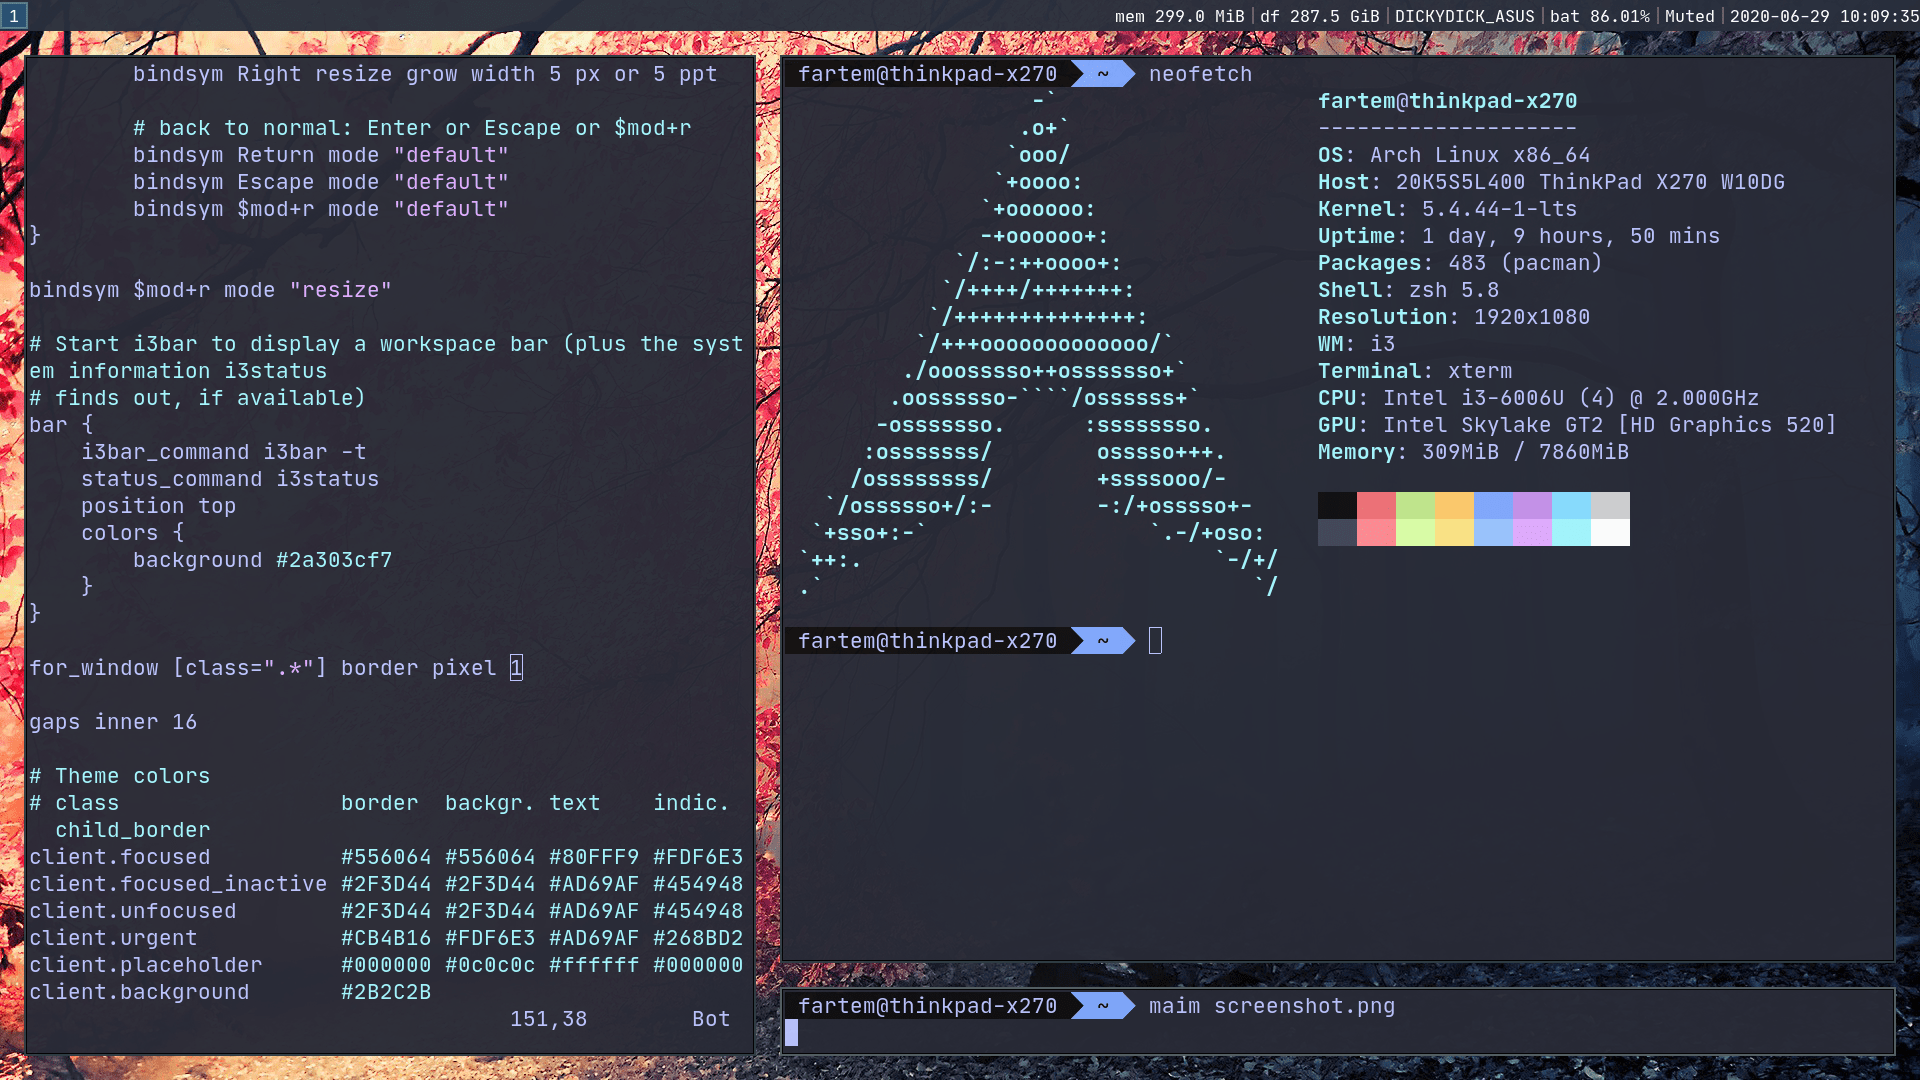
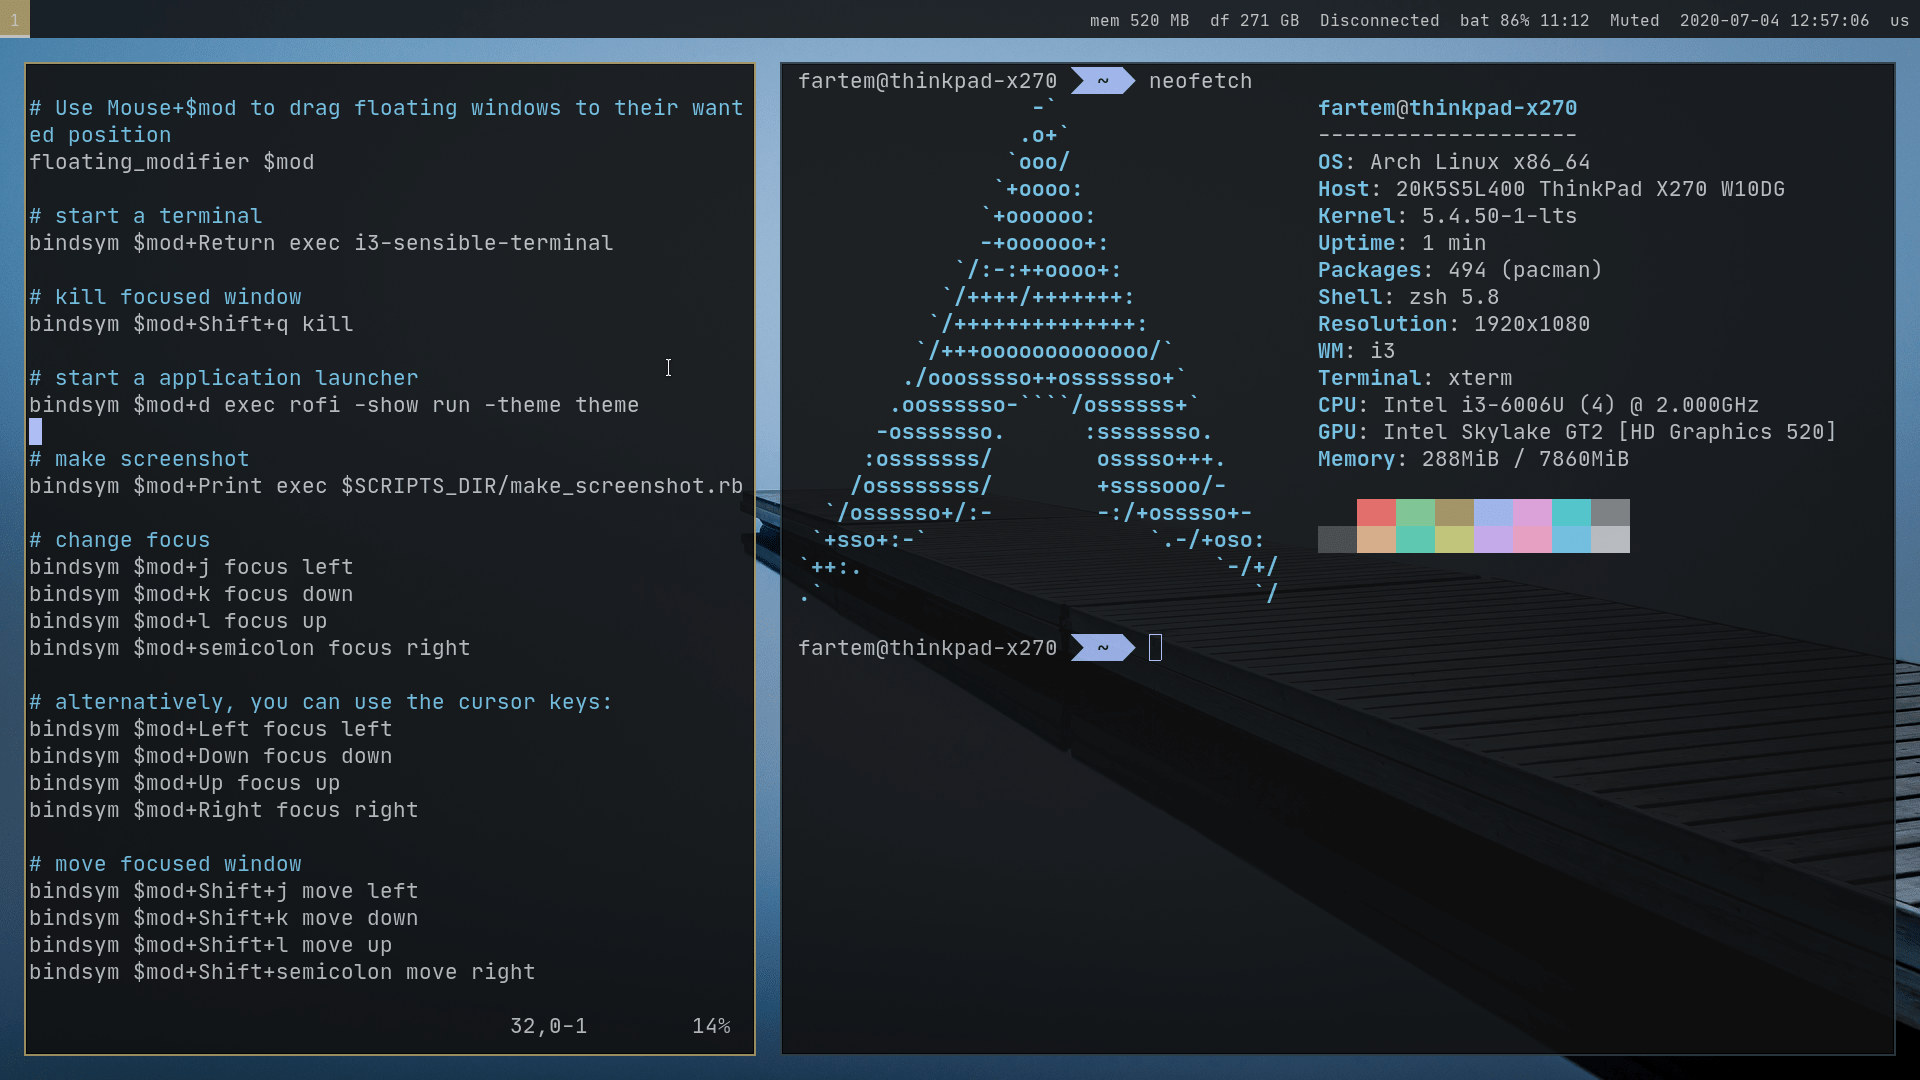
2020-07-04 Update: Updated i3 config

diff --git a/.scripts/make_screenshot.rb b/.scripts/make_screenshot.rb
@@ -1,0 +1,8 @@
+#!/bin/ruby
+
+require 'date'
+
+date = DateTime.parse(Time.now.to_s).strftime('%d_%m_%Y_%H_%M_%S')
+
+`maim screenshot_#{date}.png`
+

diff --git a/.scripts/set_transparent.rb b/.scripts/set_transparent.rb
@@ -1,4 +1,4 @@
 #!/bin/ruby
 
-`transset-df -a 0.95`
+`transset-df -a 0.9`
 

diff --git a/.scripts/set_bar.rb b/.scripts/set_bar.rb
@@ -1,0 +1,4 @@
+#!/bin/ruby
+
+`polybar top >> /tmp/polybar_top.log 2>&1`
+
